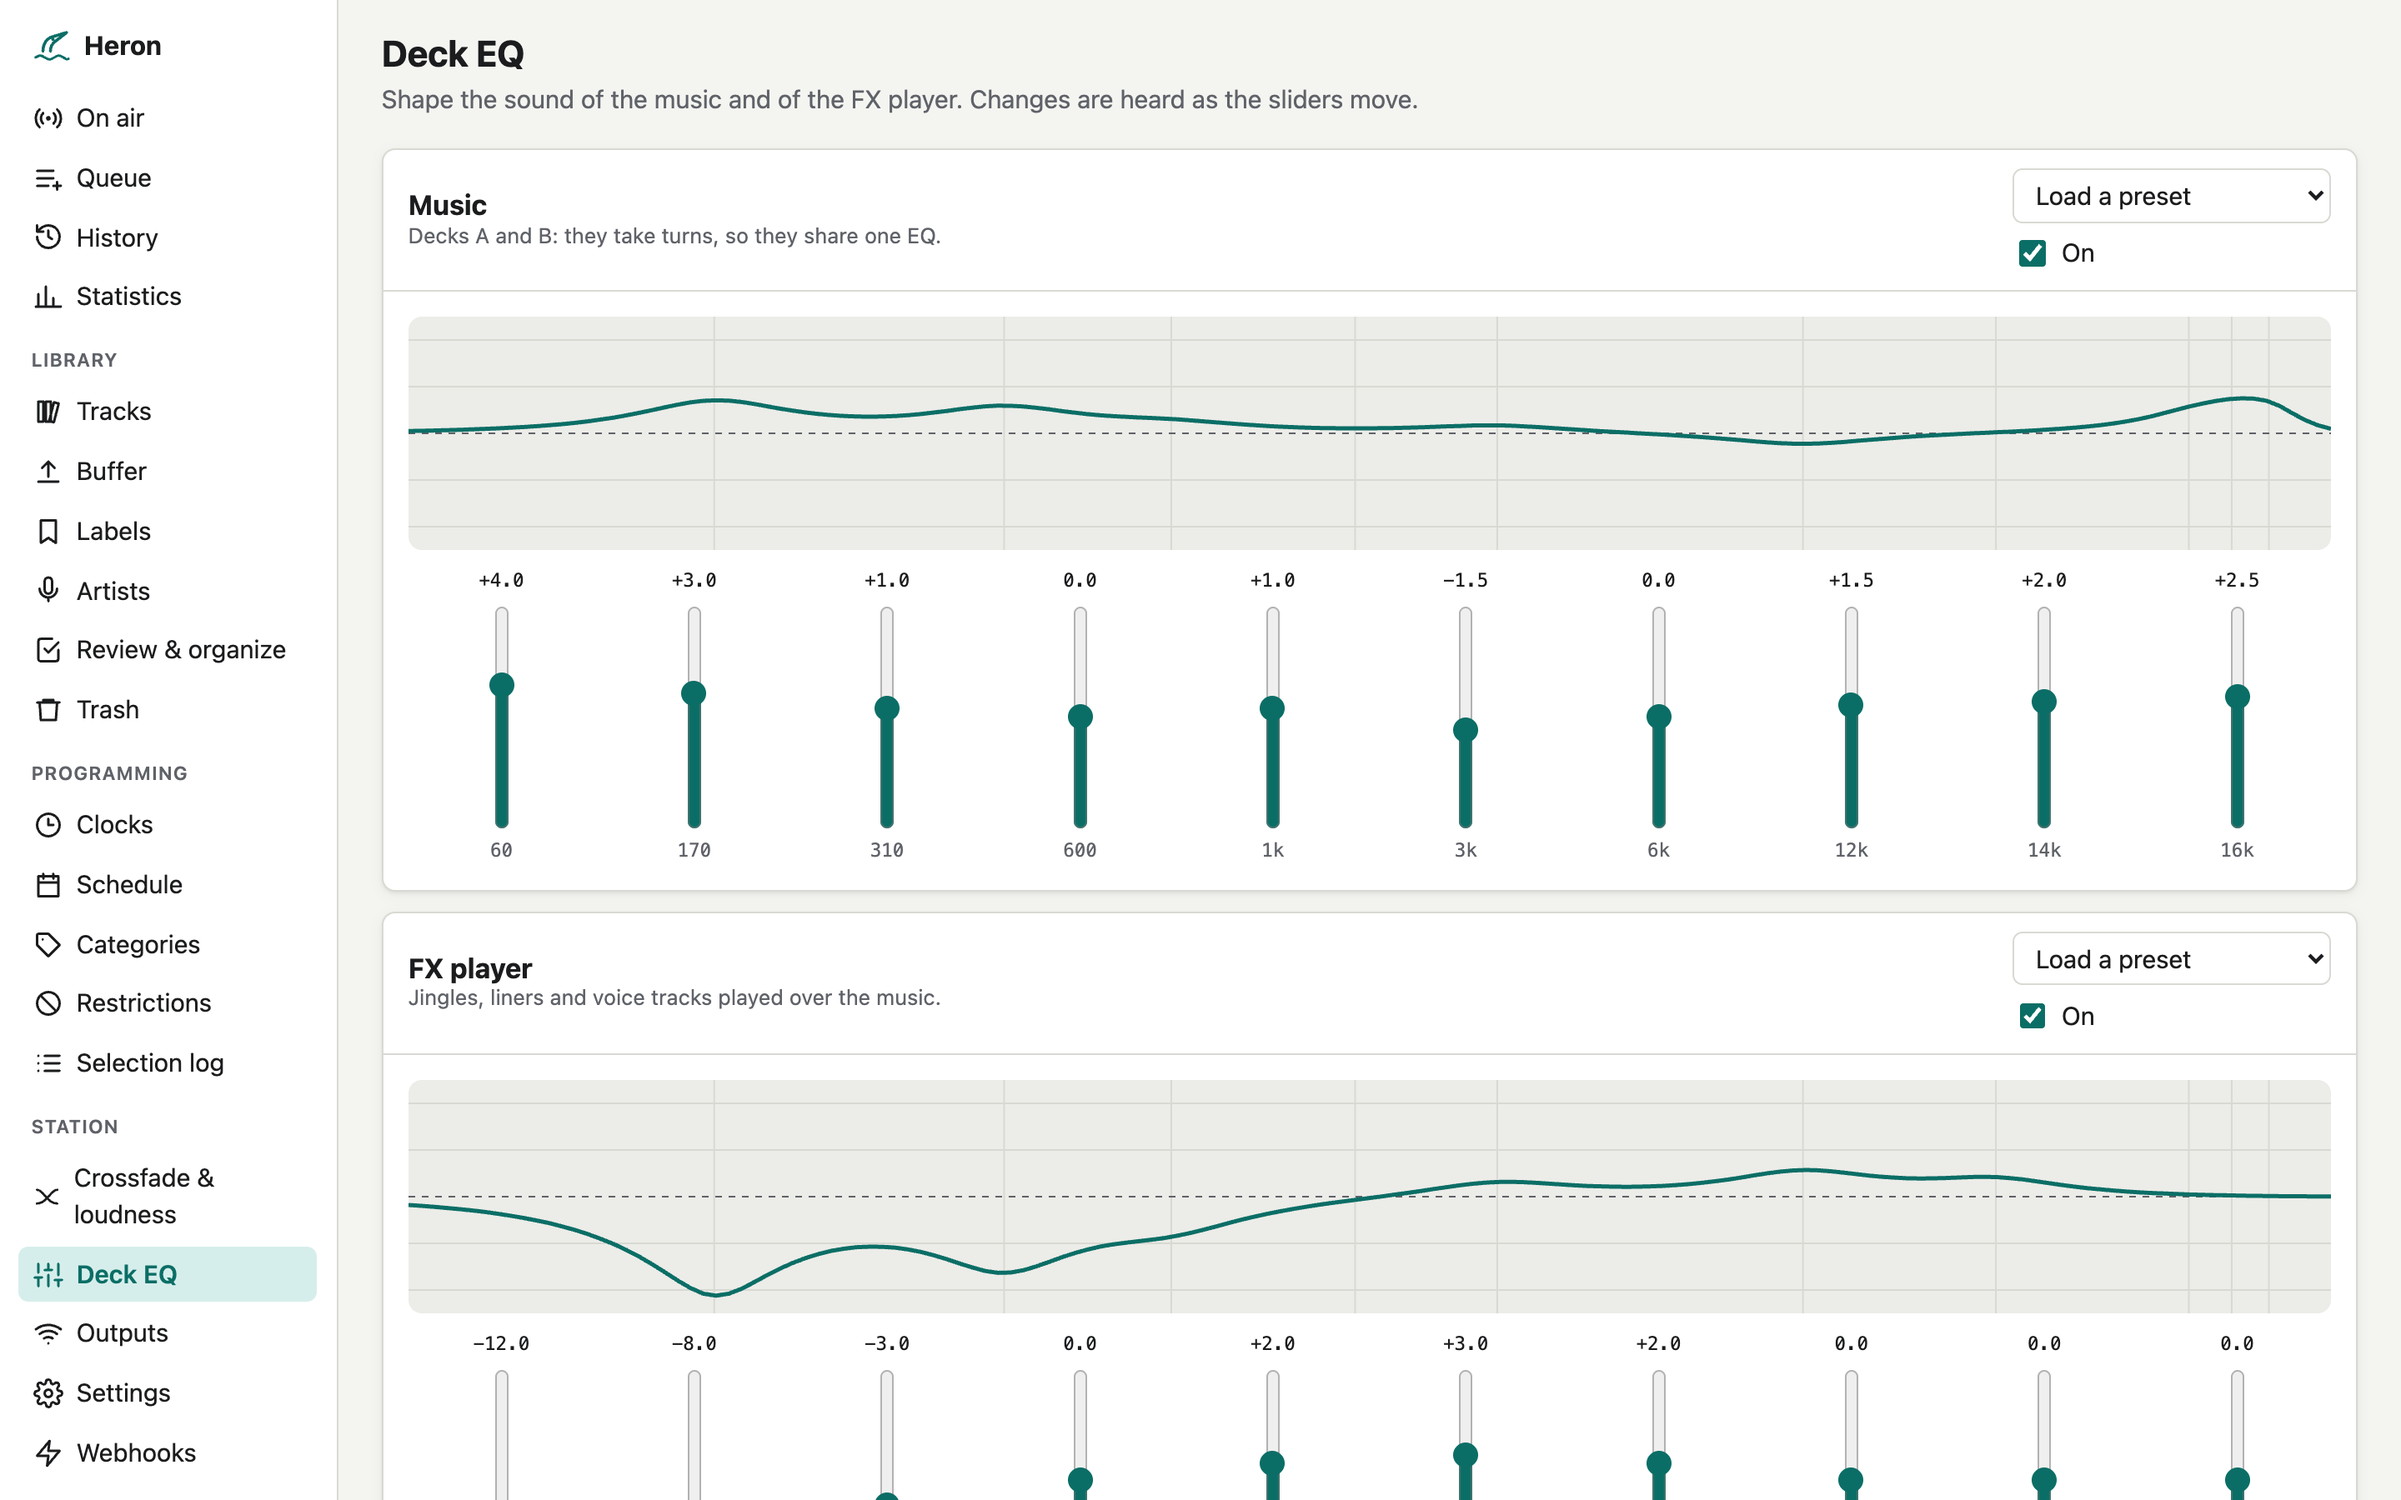
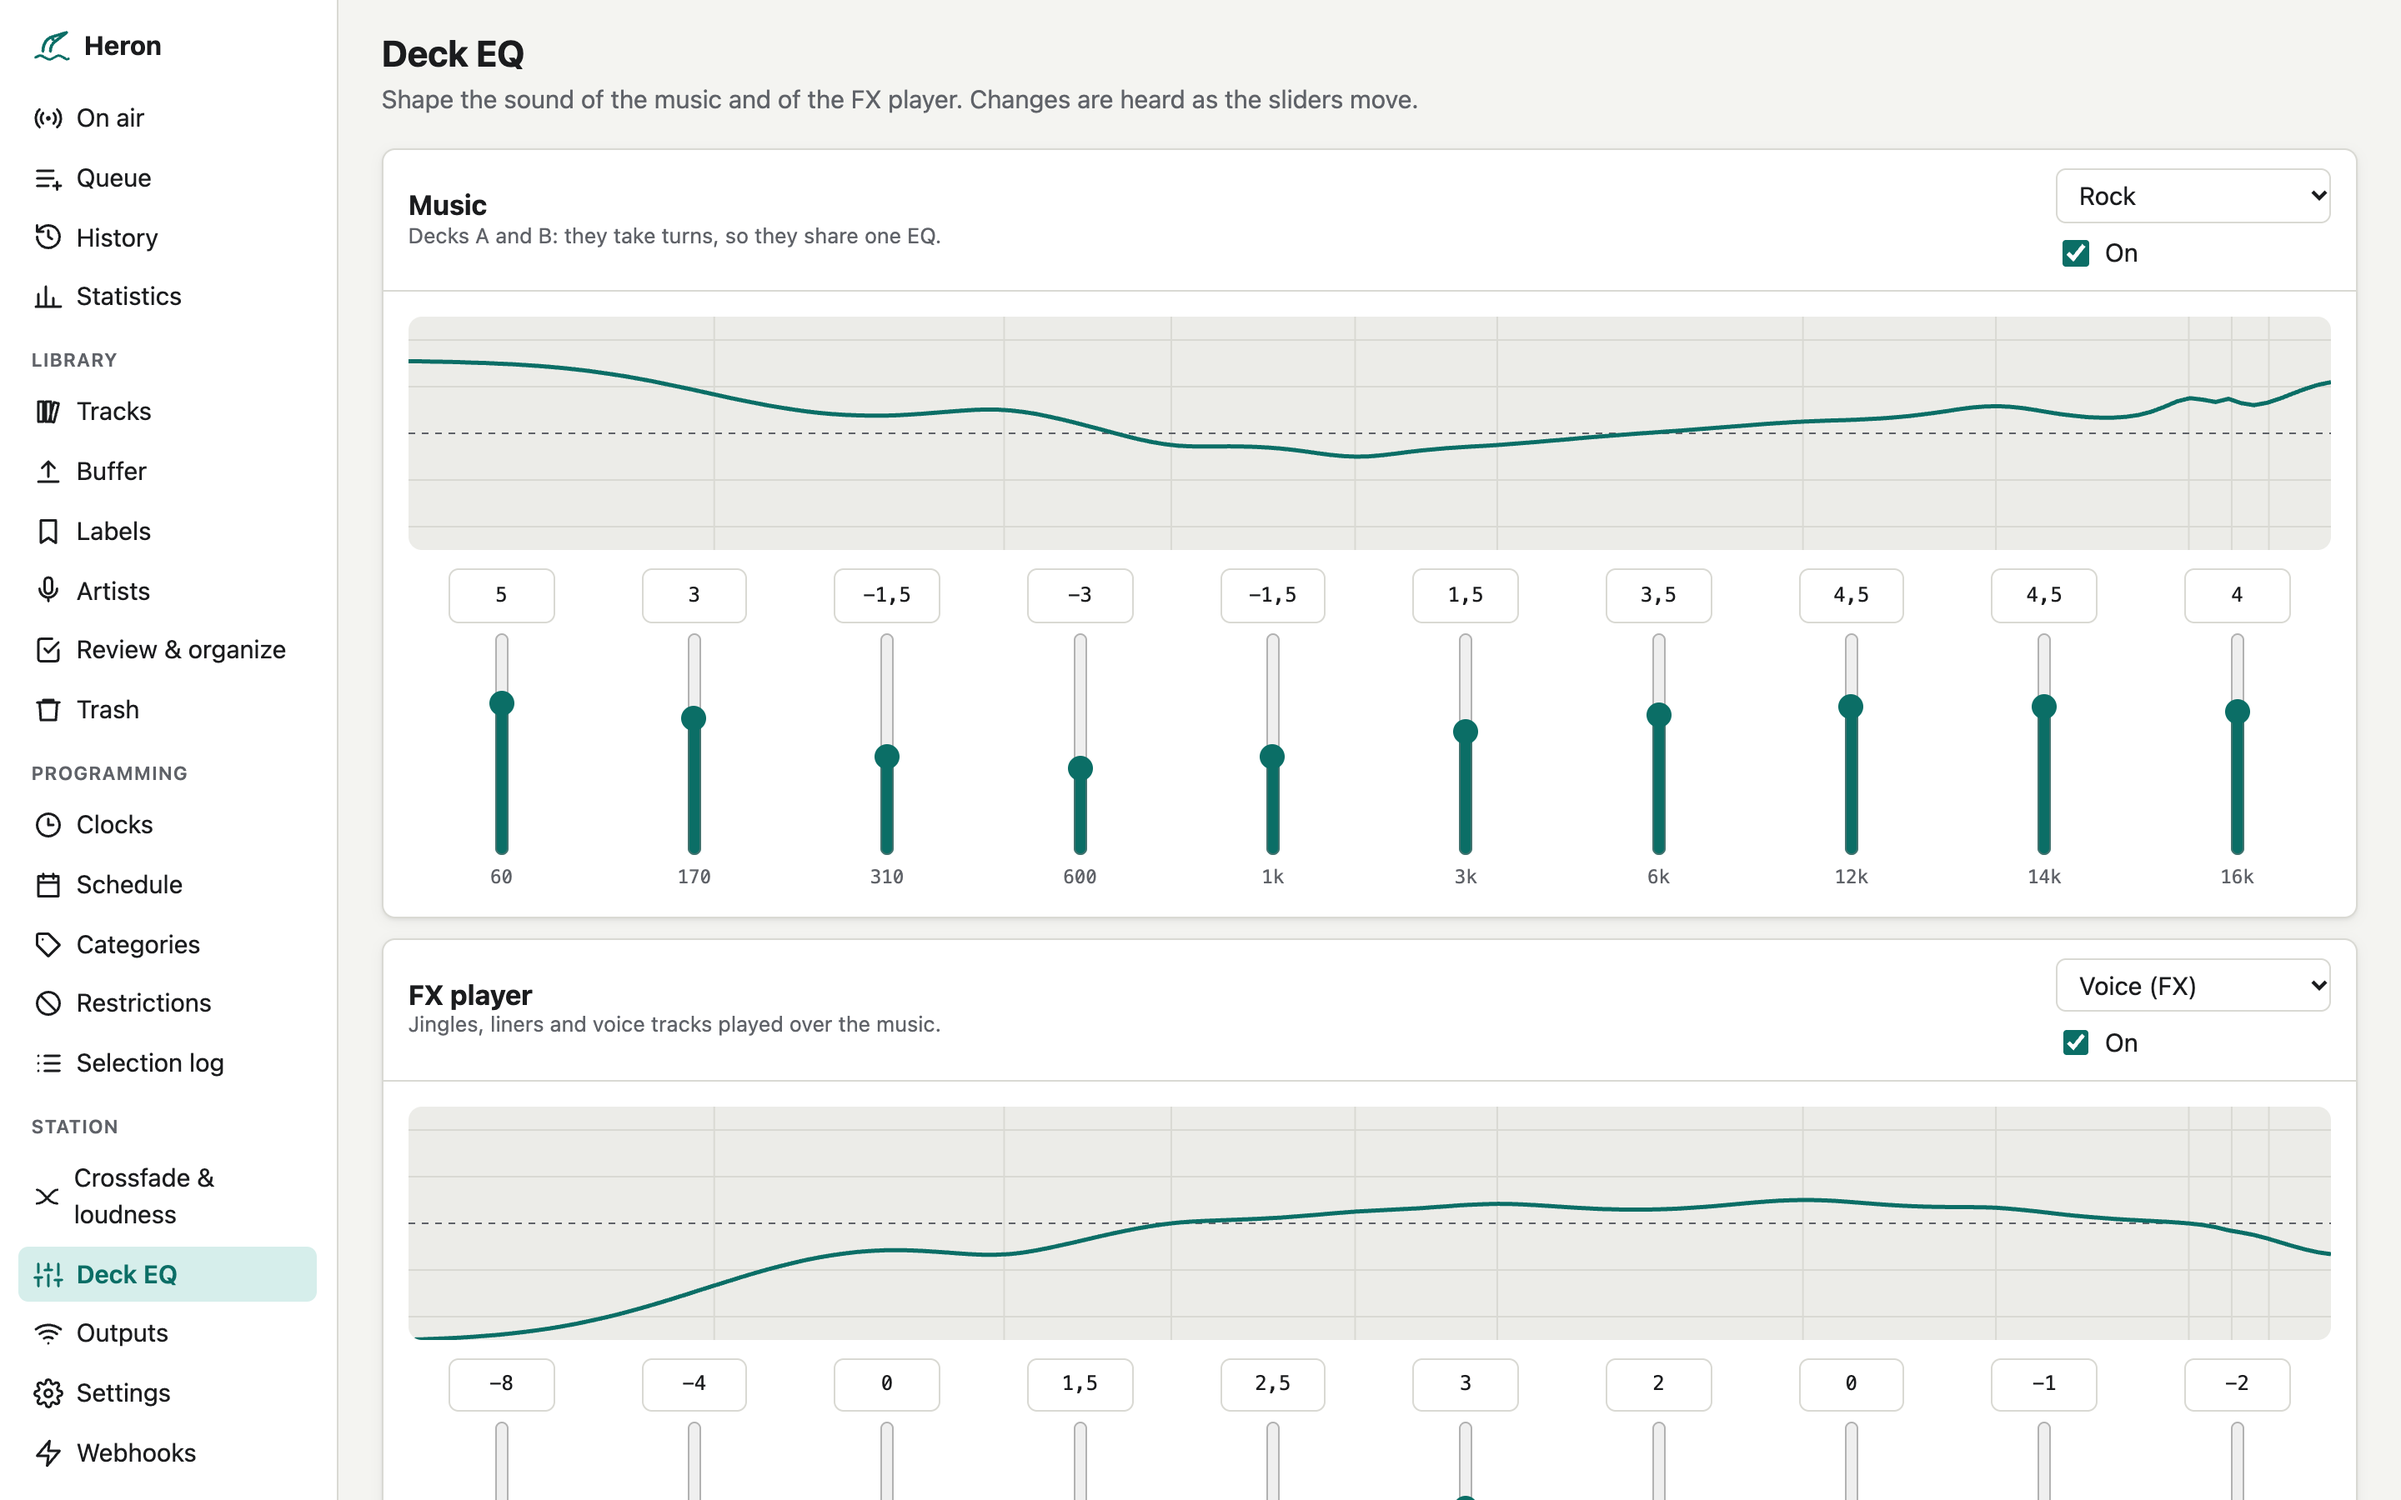
docs: M9 done
Every acceptance criterion met; the clicks checked by ear on a stack,
on music and on pink, white and brown noise. The Deck EQ screenshot
shows the number inputs.

diff --git a/docs/roadmap/m9-deck-eq.md b/docs/roadmap/m9-deck-eq.md
@@ -34,8 +34,8 @@ Stations shape the sound of what they play: more bass for a dance format, less h
 
 ## Acceptance criteria
 
-- [ ] Frequency response tests match expected curves: each band alone at ±12 dB and in between, and random settings of all ten, match the response of the filter design computed in `f64` within 0.1 dB from 20 Hz to 20 kHz. The curve meets each slider at its band's centre within 0.2 dB, or within 4 dB when the ±24 dB limit of the filter gains is reached; all sliders at the same gain give a curve within half that gain of it from 60 Hz to 16 kHz. A flat EQ changes nothing, and a bypassed one is bit-identical to no EQ. The web UI computes the same curve as the engine (a shared fixture). (`heron_dsp::eq::tests`: 23 settings × 31 frequencies; `heron-engine` mixer tests: a crossfade through the music EQ equals the crossfade without it, through one EQ.)
-- [ ] No clicks when moving sliders during playback: sines rendered while a band goes from −12 to +12 dB and back, while a preset is loaded, and while the EQ is enabled and bypassed show no step (no sample-to-sample change larger than the steady sine's own), and their energy more than 500 Hz from the sine stays within 10 dB of an ideal glide's (the level and phase of the design moving with the gains, which no filter can follow instantly) and 30 dB under that of the same change made at once, which clicks. (`heron_dsp::eq::tests`: smoothed changes stay within 8 dB of the ideal glide and 35 to 55 dB under a jump, which a control test shows failing both checks. The first filter form, a direct form biquad, failed them: hence the state-variable filters.) Checked by ear on a stack too.
+- [x] Frequency response tests match expected curves: each band alone at ±12 dB and in between, and random settings of all ten, match the response of the filter design computed in `f64` within 0.1 dB from 20 Hz to 20 kHz. The curve meets each slider at its band's centre within 0.2 dB, or within 4 dB when the ±24 dB limit of the filter gains is reached; all sliders at the same gain give a curve within half that gain of it from 60 Hz to 16 kHz. A flat EQ changes nothing, and a bypassed one is bit-identical to no EQ. The web UI computes the same curve as the engine (a shared fixture). (`heron_dsp::eq::tests`: each band's shape, the processed response of each filter alone at ±12 and ±24 dB and of solved random settings; 1,000 random settings for the sliders; `the_web_fixture_is_current` and `eq.test.ts`; the player plays the solved gains, `the_eq_plays_the_filter_gains_solved_from_the_sliders`.) (`heron_dsp::eq::tests`: 23 settings × 31 frequencies; `heron-engine` mixer tests: a crossfade through the music EQ equals the crossfade without it, through one EQ.)
+- [x] No clicks when moving sliders during playback: sines rendered while a band goes from −12 to +12 dB and back, while a preset is loaded, and while the EQ is enabled and bypassed show no step (no sample-to-sample change larger than the steady sine's own), and their energy more than 500 Hz from the sine stays within 10 dB of an ideal glide's (the level and phase of the design moving with the gains, which no filter can follow instantly) and 30 dB under that of the same change made at once, which clicks. (`heron_dsp::eq::tests`: smoothed changes stay within 8 dB of the ideal glide and 35 to 55 dB under a jump, which a control test shows failing both checks. The first filter form, a direct form biquad, failed them: hence the state-variable filters.) Checked by ear on a stack too: music, then pink, white and brown noise, sliders dragged, presets switched, the EQ turned on and off.
 - [x] The audio thread still never allocates: `tests/no_alloc.rs` moves and toggles both EQs during crossfades.
 - [x] A slider moved in the web UI is heard within 200 ms, and other open pages follow it. (Two key presses on a slider, the second held back by the 100 ms between requests: the engine had the final value 111 to 131 ms later, another open page showed it 128 to 133 ms later.)
 - [x] Presets: save, load into either EQ, rename, delete, through the API and the web UI. `Flat`, `Rock`, `Pop`, `Soft rock`, `Dance` and `Voice (FX)` are there on a fresh install. (`e2e::deck_eq_and_presets`; in a browser: saved from the music EQ, loaded into the FX EQ, deleted.)

diff --git a/docs/roadmap/README.md b/docs/roadmap/README.md
@@ -21,7 +21,7 @@ Progress is tracked here: the status column below and the acceptance checklists 
 | M7 | [Webhooks & output API](m7-webhooks-output-api.md) | M4 | Done |
 | M7b | [Listener statistics](m7b-listener-statistics.md) | M4 | Done ([#34](https://github.com/dehy/heron-broadcaster/pull/34)) |
 | M8 | [Hot engine upgrades](m8-hot-engine-upgrade.md) | M3 | Done ([#32](https://github.com/dehy/heron-broadcaster/pull/32)) |
-| M9 | [Deck EQ](m9-deck-eq.md) | M2 | In progress |
+| M9 | [Deck EQ](m9-deck-eq.md) | M2 | Done |
 | M10 | [AGC & multiband processing](m10-agc-multiband.md) | M9 | Not started |
 | M11 | [More encoders, sinks & live DJ](m11-sinks-live-dj.md) | M3 | Not started |
 
